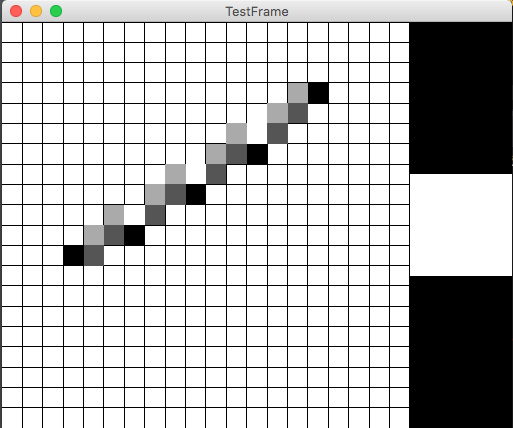
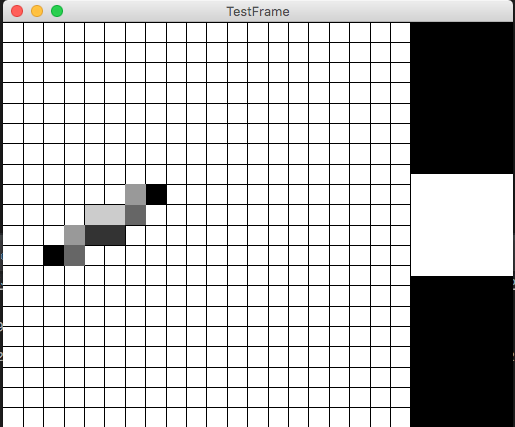
Fixed Antialiased Line Drawing algorithm.

diff --git a/src/DrawAndHandleInput.java b/src/DrawAndHandleInput.java
@@ -203,9 +203,8 @@ public class DrawAndHandleInput implements GLEventListener, KeyListener, MouseLi
 
 		// uses the global double variables that were set when user
 		// clicked as the coordinates of the bigpixel to be drawn.
-		drawBigPixel((int)bigpixelxFirst,(int)bigpixelyFirst, MAX_INTENSITY);
-
-		drawBigPixel((int)bigpixelxSecond,(int)bigpixelySecond, MAX_INTENSITY);
+		drawBigPixel((int)bigpixelxFirst,(int)bigpixelyFirst);
+		drawBigPixel((int)bigpixelxSecond,(int)bigpixelySecond);
 
 		// draw based on active mode
 		if(activeMode == 1) 
@@ -312,8 +311,8 @@ public class DrawAndHandleInput implements GLEventListener, KeyListener, MouseLi
 				y = (int) y0;
 			}
 
-			/*
-			 * if antialiased line, we will only allow black color line for now.
+			/* We draw the two end points here.
+			 * If antialiased line, we will only allow black color line for now.
 			 * Else, we draw with color.
 			 */
 			if(antialiased)
@@ -323,8 +322,8 @@ public class DrawAndHandleInput implements GLEventListener, KeyListener, MouseLi
 			}
 			else
 			{
-				drawBigPixel(x,y, MAX_INTENSITY);
-				drawBigPixel( (int) Math.floor(xEnd), (int) Math.floor(yEnd), MAX_INTENSITY);
+				drawBigPixel(x,y);
+				drawBigPixel( (int) Math.floor(xEnd), (int) Math.floor(yEnd));
 			}
 
 			while( x < Math.floor(xEnd)-1 )
@@ -344,6 +343,7 @@ public class DrawAndHandleInput implements GLEventListener, KeyListener, MouseLi
 				 */
 				double dLower = -1;
 				double dUpper = -1;
+
 				if(antialiased)
 				{
 					dLower = ( (double) p / dx + 1) / 2;
@@ -379,62 +379,92 @@ public class DrawAndHandleInput implements GLEventListener, KeyListener, MouseLi
 				if(antialiased)
 				{
 					/*
-					 * For positive slope
+					 * Check through the 3 cases.
+					 * In the case where either is 1.0, we check it when
+					 * dLower & dUpper > 0
 					 */
-					if( delY > 0 )
+					if(dLower < 0)
 					{
-						/*
-						 * the line passes through unequal amount for two pixels.
-						 * Whichever pixel has higher percentage (dUpper vs. dLower),
-						 * we give it more.
-						 */
-						if(move && dLower != dUpper)
+						if( delY > 0)
 						{
-							System.out.println("(x,y-1) : " + x + ", " + (y-1) + " - " + dUpper);
-							System.out.println("(x,y) : " + x + ", " + y + " - " + dLower);
-							System.out.println();
-							drawBigPixel(x,y-1, dUpper, dUpper, dUpper); 
-							drawBigPixel(x,y, dLower, dLower, dLower);
-						}
-						/*
-						 * If the line passes through the center, we are just 
-						 * going to draw the chosen point
-						 */
-						else if(!move && dLower != dUpper)
-						{
-							System.out.println("(x,y+1) : " + x + ", " + (y+1) + " - " + dUpper);
-							System.out.println("(x,y) : " + x + ", " + y + " - " + dLower);
-							System.out.println();
-							drawBigPixel(x,y+1, dUpper, dUpper, dUpper); 
-							drawBigPixel(x,y, dLower, dLower, dLower);
+							drawBigPixel(x,y-1, 1- Math.abs(dLower), 1- Math.abs(dLower), 1- Math.abs(dLower)); 
+							drawBigPixel(x,y, Math.abs(dLower), Math.abs(dLower), Math.abs(dLower));
 						}
 						else
 						{
-							System.out.println("Center (x,y) : " + x + ", " + y);
-							System.out.println();
-							drawBigPixel(x,y,0d,0d,0d);
+							drawBigPixel(x,y+1, 1- Math.abs(dLower), 1- Math.abs(dLower), 1- Math.abs(dLower)); 
+							drawBigPixel(x,y, Math.abs(dLower), Math.abs(dLower), Math.abs(dLower));
 						}
 					}
-					/*
-					 * For negative slope, we consider between pixel to the right 
-					 * or pixel right & below.
-					 * Instead of y + 1 as above, we draw y - 1 
-					 */
-					else 
+					else if(dUpper < 0)
 					{
-						if(move && dUpper != dLower)
+						if( delY > 0)
 						{
-							drawBigPixel(x,y+1, dUpper, dUpper, dUpper); 
-							drawBigPixel(x,y, dLower, dLower, dLower);
-						}
-						else if(!move && dUpper != dLower)
-						{
-							drawBigPixel(x,y-1, dUpper, dUpper, dUpper); 
-							drawBigPixel(x,y, dLower, dLower, dLower);
+							drawBigPixel(x,y+1, Math.abs(dUpper), Math.abs(dUpper), Math.abs(dUpper)); 
+							drawBigPixel(x,y, 1-Math.abs(dUpper), 1-Math.abs(dUpper), 1-Math.abs(dUpper));
 						}
 						else
 						{
+							drawBigPixel(x,y-1, Math.abs(dUpper), Math.abs(dUpper), Math.abs(dUpper)); 
+							drawBigPixel(x,y, 1-Math.abs(dUpper), 1-Math.abs(dUpper), 1-Math.abs(dUpper));
+						}
+					}
+					else if(dLower >= 0 && dUpper >= 0)
+					{
+						/*
+						 * We go through the center of the pixel if either one of the values
+						 * are 1.0.
+						 */
+						if( dLower == 1.0 || dUpper == 1.0)
+						{
 							drawBigPixel(x,y, 0d, 0d, 0d);
+						}
+						/*
+						 * For positive slope
+						 */
+						else if( delY > 0 )
+						{
+							/*
+							 * Either when either dLower or dUpper = 0.5.
+							 * or when Bresenham's line chose to change y.
+							 */
+							if(move || dLower == dUpper)
+							{
+								//								System.out.println("(x,y-1) : " + x + ", " + (y-1) + " - " + dUpper);
+								//								System.out.println("(x,y) : " + x + ", " + y + " - " + dLower);
+								//								System.out.println();
+								drawBigPixel(x,y-1, dUpper, dUpper, dUpper); 
+								drawBigPixel(x,y, dLower, dLower, dLower);
+							}
+							/*
+							 * When Bresenham's line chose to keep y.
+							 */
+							else
+							{
+								//								System.out.println("(x,y+1) : " + x + ", " + (y+1) + " - " + dUpper);
+								//								System.out.println("(x,y) : " + x + ", " + y + " - " + dLower);
+								//								System.out.println();
+								drawBigPixel(x,y+1, dUpper, dUpper, dUpper); 
+								drawBigPixel(x,y, dLower, dLower, dLower);
+							}
+						}
+						/*
+						 * For negative slope, we consider between pixel to the right 
+						 * or pixel right & below.
+						 * Instead of y + 1 as above, we draw y - 1 
+						 */
+						else 
+						{
+							if(move || dUpper == dLower)
+							{
+								drawBigPixel(x,y+1, dUpper, dUpper, dUpper); 
+								drawBigPixel(x,y, dLower, dLower, dLower);
+							}
+							else 
+							{
+								drawBigPixel(x,y-1, dUpper, dUpper, dUpper); 
+								drawBigPixel(x,y, dLower, dLower, dLower);
+							}
 						}
 					}
 				}
@@ -443,7 +473,7 @@ public class DrawAndHandleInput implements GLEventListener, KeyListener, MouseLi
 				 */
 				else
 				{
-					drawBigPixel(x,y, MAX_INTENSITY);
+					drawBigPixel(x,y);
 				}
 			}
 		}
@@ -484,8 +514,8 @@ public class DrawAndHandleInput implements GLEventListener, KeyListener, MouseLi
 			}
 			else
 			{
-				drawBigPixel(x,y, MAX_INTENSITY);
-				drawBigPixel( (int) Math.floor(xEnd), (int) Math.floor(yEnd), MAX_INTENSITY);
+				drawBigPixel(x,y);
+				drawBigPixel( (int) Math.floor(xEnd), (int) Math.floor(yEnd));
 			}
 
 			while( y < Math.floor(yEnd)-1 )
@@ -496,11 +526,14 @@ public class DrawAndHandleInput implements GLEventListener, KeyListener, MouseLi
 				 */
 				double dLower = -1;
 				double dUpper = -1;
+
 				if(antialiased)
 				{
 					dLower = ( (double) p / dy + 1) / 2;
 					dUpper = 1 - dLower;
 				}
+
+				System.out.println(dLower + " - " + dUpper);
 
 				y++;
 				boolean move = false;
@@ -521,54 +554,79 @@ public class DrawAndHandleInput implements GLEventListener, KeyListener, MouseLi
 				 */
 				if(antialiased)
 				{
-					if( delX > 0 ) 
+					if( dLower < 0)
 					{
-						/*
-						 * We consider between the pixel up or pixel up & right
-						 */
-						if(move && dUpper != dLower)
+						if( delX > 0)
 						{
-							drawBigPixel(x+1,y, dUpper, dUpper, dUpper);
-							drawBigPixel(x,y, dLower, dLower, dLower);
-						}
-						else if(!move && dUpper != dLower)
-						{
-							drawBigPixel(x-1,y, dUpper, dUpper, dUpper);
-							drawBigPixel(x,y, dLower, dLower, dLower);
+							drawBigPixel(x-1,y, 1- Math.abs(dLower), 1- Math.abs(dLower), 1- Math.abs(dLower)); 
+							drawBigPixel(x,y, Math.abs(dLower), Math.abs(dLower), Math.abs(dLower));
 						}
 						else
 						{
-							drawBigPixel(x,y, 0d, 0d , 0d);
+							drawBigPixel(x+1,y, 1- Math.abs(dLower), 1- Math.abs(dLower), 1- Math.abs(dLower)); 
+							drawBigPixel(x,y, Math.abs(dLower), Math.abs(dLower), Math.abs(dLower));
 						}
 					}
-					else 
+					else if( dUpper < 0)
 					{
-						/*
-						 * We consider between the pixel up or pixel up & left
-						 */
-						if(move && dUpper != dLower)
+						if( delX > 0)
 						{
-							drawBigPixel(x-1,y, dUpper, dUpper, dUpper);
-							drawBigPixel(x,y, dLower, dLower, dLower);
-						}
-						else if(!move && dUpper != dLower)
-						{
-							drawBigPixel(x+1,y, dUpper, dUpper, dUpper);
-							drawBigPixel(x,y, dLower, dLower, dLower);
+							drawBigPixel(x+1,y, Math.abs(dUpper), Math.abs(dUpper), Math.abs(dUpper)); 
+							drawBigPixel(x,y, 1-Math.abs(dUpper), 1-Math.abs(dUpper), 1-Math.abs(dUpper));
 						}
 						else
 						{
-							drawBigPixel(x,y, 0d, 0d , 0d);
+							drawBigPixel(x-1,y, Math.abs(dUpper), Math.abs(dUpper), Math.abs(dUpper)); 
+							drawBigPixel(x,y, 1-Math.abs(dUpper), 1-Math.abs(dUpper), 1-Math.abs(dUpper));
 						}
 					}
-					//				System.out.println(dLower + " - " + dUpper);
+					else if(dLower >= 0 && dUpper >= 0)
+					{
+						if( dLower == 1.0 || dUpper == 1.0)
+						{
+							System.out.println("Full intensity");
+							drawBigPixel(x,y, 0d, 0d, 0d);
+						}
+						else if( delX > 0 ) 
+						{
+							/*
+							 * We consider between the pixel up or pixel up & right
+							 */
+							if(move || dUpper == dLower)
+							{
+								drawBigPixel(x-1,y, dUpper, dUpper, dUpper);
+								drawBigPixel(x,y, dLower, dLower, dLower);
+							}
+							else 
+							{
+								drawBigPixel(x+1,y, dUpper, dUpper, dUpper);
+								drawBigPixel(x,y, dLower, dLower, dLower);
+							}
+						}
+						else 
+						{
+							/*
+							 * We consider between the pixel up or pixel up & left
+							 */
+							if(move || dUpper == dLower)
+							{
+								drawBigPixel(x+1,y, dUpper, dUpper, dUpper);
+								drawBigPixel(x,y, dLower, dLower, dLower);
+							}
+							else //if(!move && dUpper != dLower)
+							{
+								drawBigPixel(x-1,y, dUpper, dUpper, dUpper);
+								drawBigPixel(x,y, dLower, dLower, dLower);
+							}
+						}
+					}
 				}
 				/*
 				 * Drawing aliased line
 				 */
 				else
 				{
-					drawBigPixel(x,y, MAX_INTENSITY);
+					drawBigPixel(x,y);
 				}
 			}
 
@@ -633,35 +691,35 @@ public class DrawAndHandleInput implements GLEventListener, KeyListener, MouseLi
 			 */
 			if( Math.abs(x + x0) < widthLimit && x + x0 > 0  && y + y0 > 0 && Math.abs(y + y0) < heightLimit) 
 			{
-				drawBigPixel( (int) (x + x0), (int) (y + y0), MAX_INTENSITY );
+				drawBigPixel( (int) (x + x0), (int) (y + y0) );
 			}
 			if( Math.abs(negX + x0) < widthLimit && negX + x0 > 0  && negY + y0 > 0 && Math.abs(negY + y0) < heightLimit) 
 			{
-				drawBigPixel( (int) (negX + x0), (int) (negY + y0), MAX_INTENSITY );
+				drawBigPixel( (int) (negX + x0), (int) (negY + y0) );
 			}
 			if( Math.abs(negX + x0) < widthLimit && negX + x0 > 0  && y + y0 > 0 && Math.abs(y + y0) < heightLimit) 
 			{
-				drawBigPixel( (int) (negX + x0), (int) (y + y0), MAX_INTENSITY );
+				drawBigPixel( (int) (negX + x0), (int) (y + y0) );
 			}
 			if( Math.abs(x + x0) < widthLimit && x + x0 > 0  && negY + y0 > 0 && Math.abs(negY + y0) < heightLimit) 
 			{
-				drawBigPixel( (int) (x + x0), (int) (negY + y0), MAX_INTENSITY );
+				drawBigPixel( (int) (x + x0), (int) (negY + y0) );
 			}
 			if( Math.abs(y + x0) < widthLimit && y + x0 > 0  && x + y0 > 0 && Math.abs(x + y0) < heightLimit) 
 			{
-				drawBigPixel( (int) (y + x0), (int) (x + y0), MAX_INTENSITY );
+				drawBigPixel( (int) (y + x0), (int) (x + y0) );
 			}
 			if( Math.abs(y + x0) < widthLimit && y + x0 > 0  && negX + y0 > 0 && Math.abs(negX + y0) < heightLimit) 
 			{
-				drawBigPixel( (int) (y + x0), (int) (negX + y0), MAX_INTENSITY );
+				drawBigPixel( (int) (y + x0), (int) (negX + y0) );
 			}
 			if( Math.abs(negY + x0) < widthLimit && negY + x0 > 0  && x + y0 > 0 && Math.abs(x + y0) < heightLimit) 
 			{
-				drawBigPixel( (int) (negY + x0), (int) (x + y0), MAX_INTENSITY );
+				drawBigPixel( (int) (negY + x0), (int) (x + y0) );
 			}
 			if( Math.abs(negY + x0) < widthLimit && negY + x0 > 0  && negX + y0 > 0 && Math.abs(negX + y0) < heightLimit) 
 			{
-				drawBigPixel( (int) (negY + x0), (int) (negX + y0), MAX_INTENSITY );
+				drawBigPixel( (int) (negY + x0), (int) (negX + y0) );
 			}
 		}
 
@@ -767,7 +825,7 @@ public class DrawAndHandleInput implements GLEventListener, KeyListener, MouseLi
 	    i - the value to times rgb value by
 
 	 */
-	public void drawBigPixel(int x, int y, double i)
+	public void drawBigPixel(int x, int y)
 	{
 		// because the y screen coordinates increase as we go down 
 		// and the y world coordinates increase as we go up
@@ -775,7 +833,7 @@ public class DrawAndHandleInput implements GLEventListener, KeyListener, MouseLi
 		// of the big pixel if the big pixel coordinates' y values
 		// increased as we go up
 		int flip_y = Math.abs((BIGPIXEL_ROWS-1) - y);
-		gl.glColor3d(r * i, g * i, b * i);
+		gl.glColor3d(r, g, b);
 		gl.glBegin(GL2.GL_POLYGON);
 		gl.glVertex2d((double)x*BIGAREA_HEIGHT/BIGPIXEL_ROWS, 
 				(double)flip_y*BIGAREA_WIDTH/BIGPIXEL_COLS);
